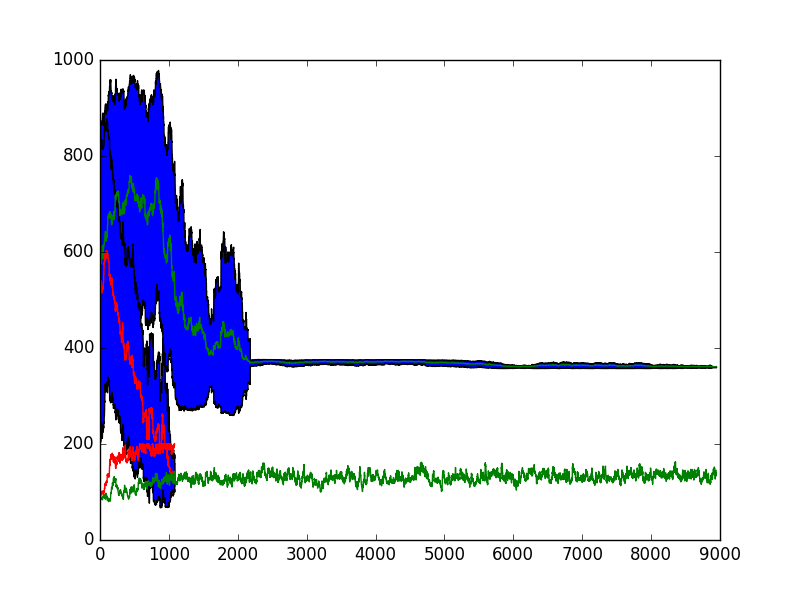
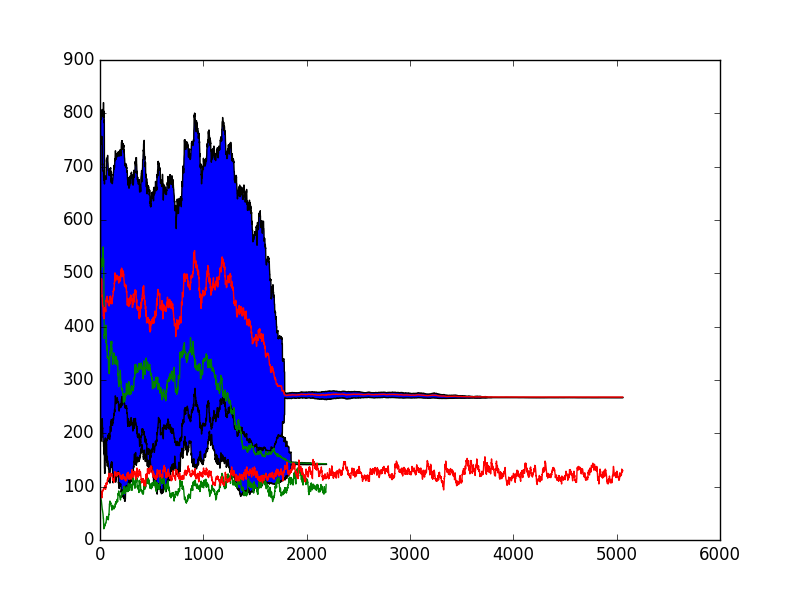
minor edits

diff --git a/matrixSim.py b/matrixSim.py
@@ -5,7 +5,7 @@ import matplotlib.pyplot as plt
 
 # use 1.03 instead for a much harsher pred population curve
 def exponential(x):
-    return int(np.power(1.03, x) + 1)
+    return int(np.power(1.04, x) + 1)
 
 def population(popSize, Plane):
     rateGene = np.random.randint(1,high=1024, size=(popSize,1))
@@ -186,12 +186,12 @@ for run in range(iterations):
     populSize1 = []
     rateStd1 = []
     organismMoveRate = 1
-    predationRate = 0.9
+    predationRate = 0.45
     genomes, predators = population(100,50)
 
     for n in range(iters):
         t0 = time.time()
-        Plane = 50
+        Plane = int(0.5*len(genomes))
         mutate(genomes)
         move(genomes,organismMoveRate)
         move(predators, 1)
@@ -209,7 +209,7 @@ for run in range(iterations):
         if np.std(genomes[:,0]) == 0:
              break
         t1 = time.time()
-        print(n,t1-t0, np.mean(genomes[:,0]), len(genomes), len(predators),\
+        print(run,n,t1-t0, np.mean(genomes[:,0]), len(genomes), len(predators),\
                 np.max(genomes[:,4]))
 
     spread1 = 0
@@ -217,7 +217,7 @@ for run in range(iterations):
         spread1 = [np.min(genomes[:,0]),np.max(genomes[:,0])]
 
     organismMoveRate = 1
-    predationRate = 0.1
+    predationRate = 0.15
     genomes, predators = population(100,50)
     rateAvg2 = []
     populSize2 = []
@@ -225,7 +225,7 @@ for run in range(iterations):
 
     for n in range(iters):
         t0 = time.time()
-        Plane = 50
+        Plane = int(0.5*len(genomes))
         mutate(genomes)
         move(genomes,organismMoveRate)
         move(predators, 1)
@@ -243,7 +243,7 @@ for run in range(iterations):
         if np.std(genomes[:,0]) == 0:
              break
         t1 = time.time()
-        print(n,t1-t0, np.mean(genomes[:,0]), len(genomes),len(predators),\
+        print(run,n,t1-t0, np.mean(genomes[:,0]), len(genomes),len(predators),\
                 np.max(genomes[:,4]))
 
     spread2 = 0
